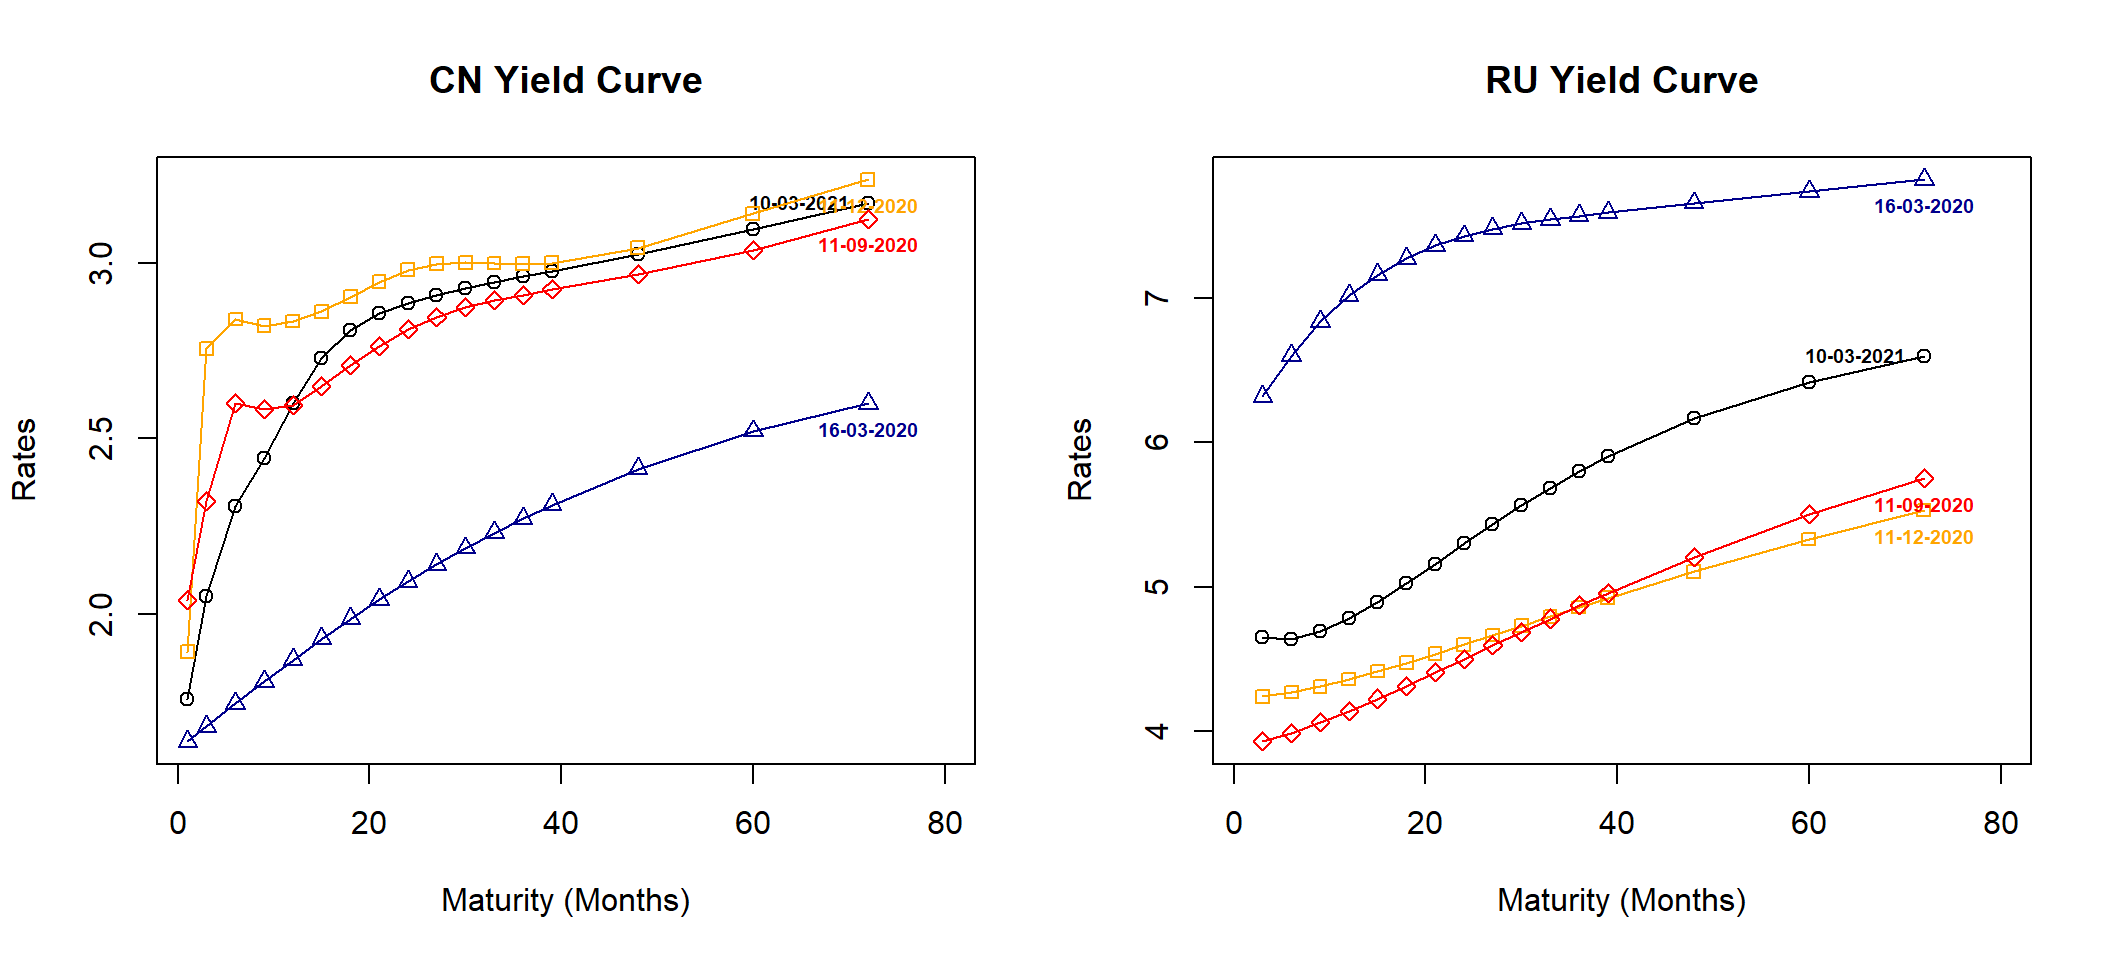
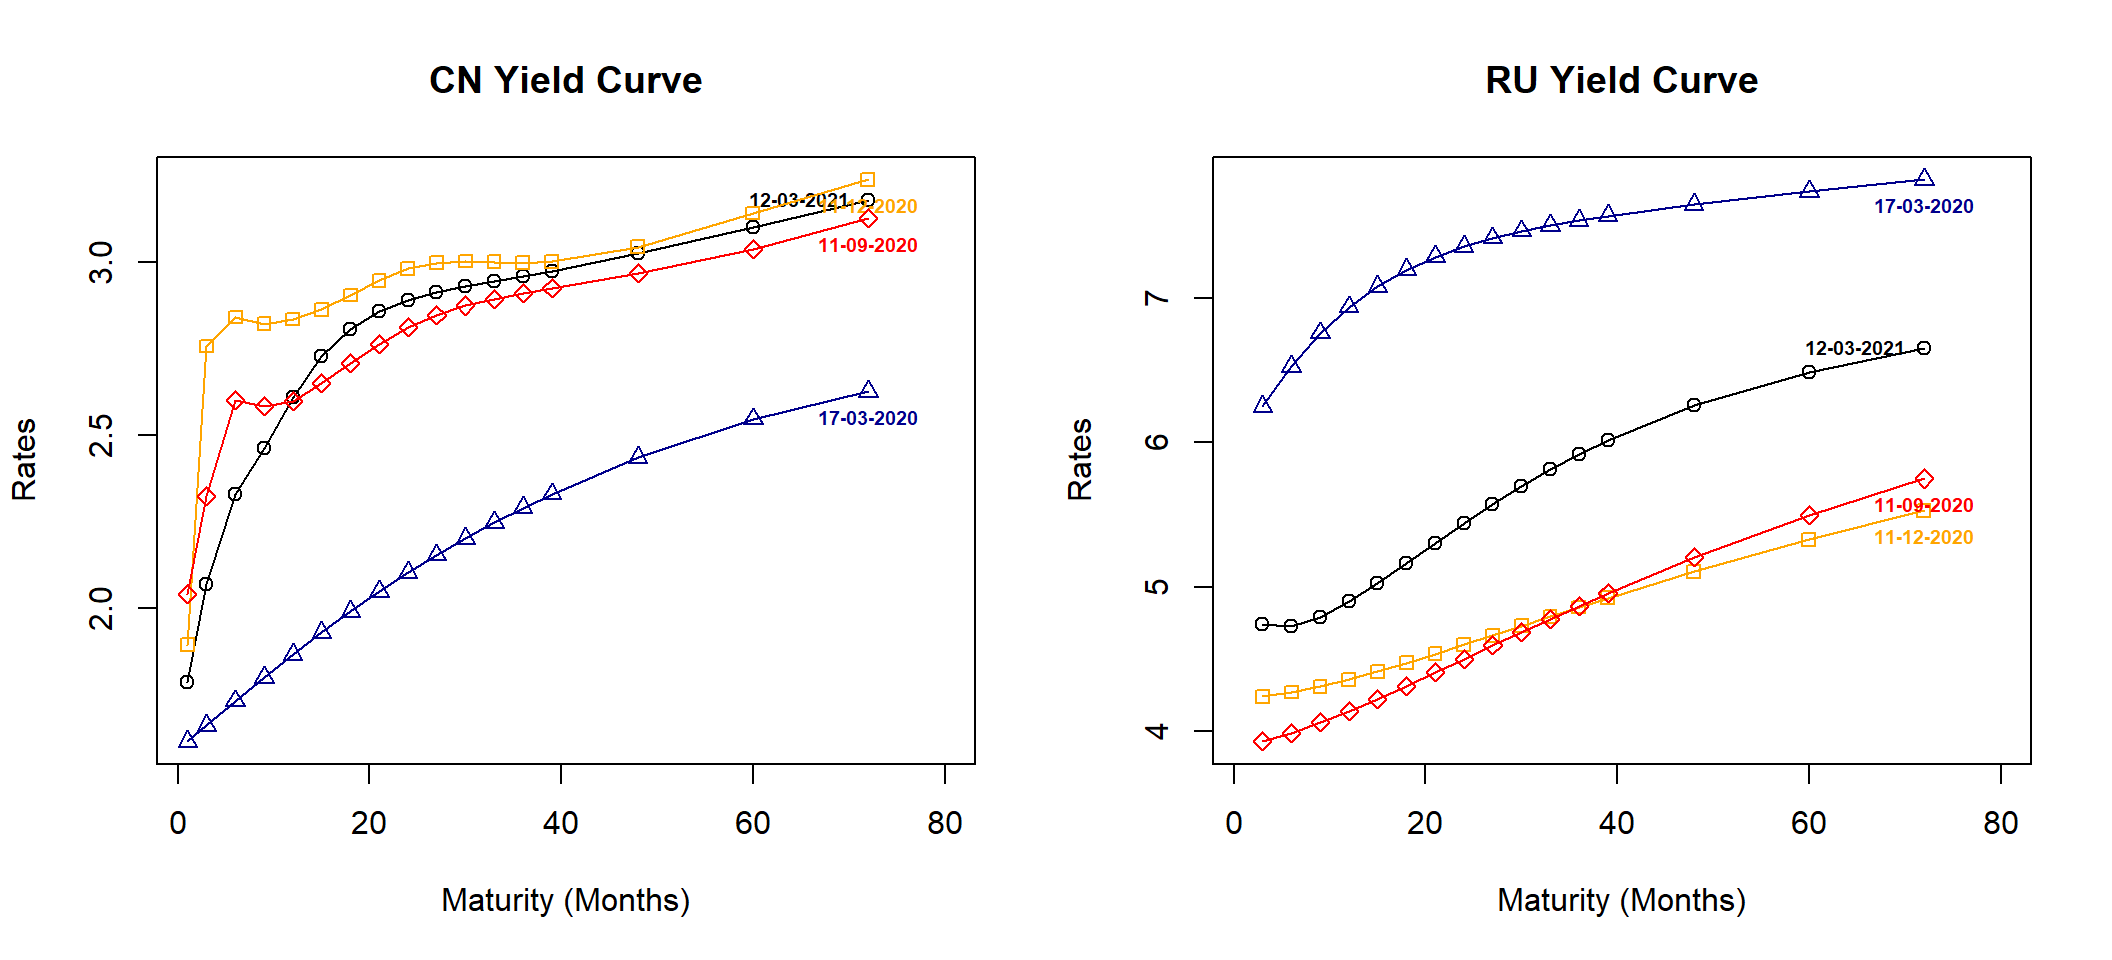
Add files via upload

diff --git a/index.html b/index.html
@@ -10,7 +10,7 @@
 
 
 
-<meta name="date" content="2021-11-03" />
+<meta name="date" content="2021-12-03" />
 
 <title>Yield Curves of BR, US, CN, and RU</title>
 
@@ -327,7 +327,7 @@ $(document).ready(function () {
 
 
 <h1 class="title toc-ignore">Yield Curves of BR, US, CN, and RU</h1>
-<h4 class="date">11/03/2021</h4>
+<h4 class="date">12/03/2021</h4>
 
 </div>
 
